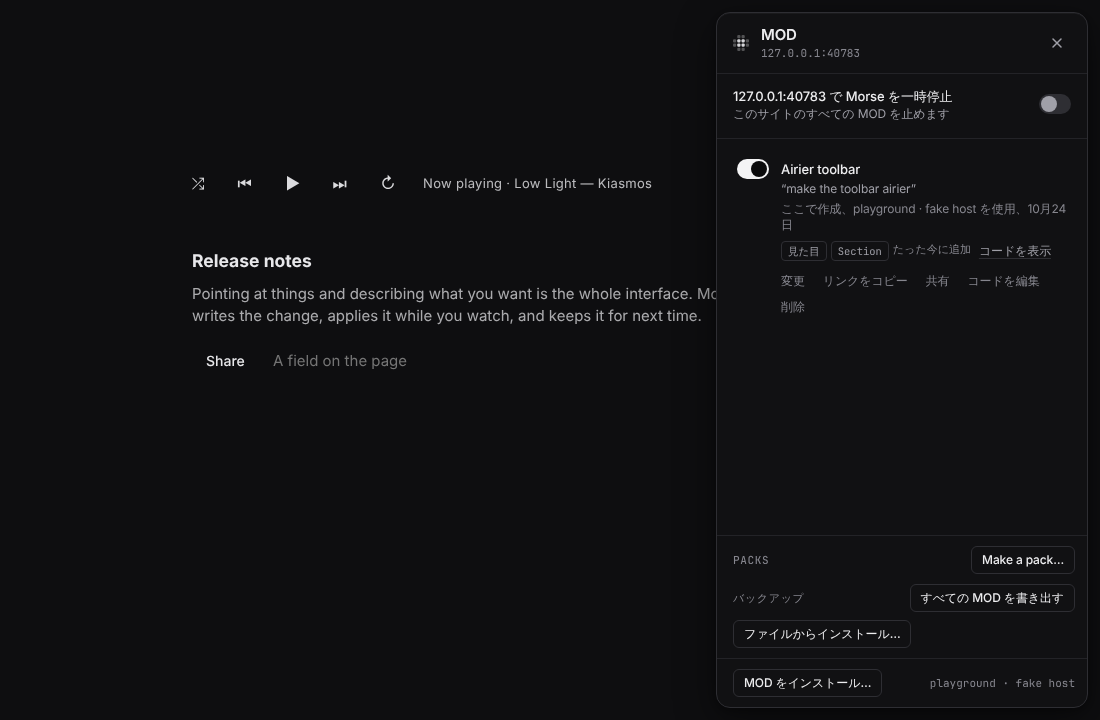
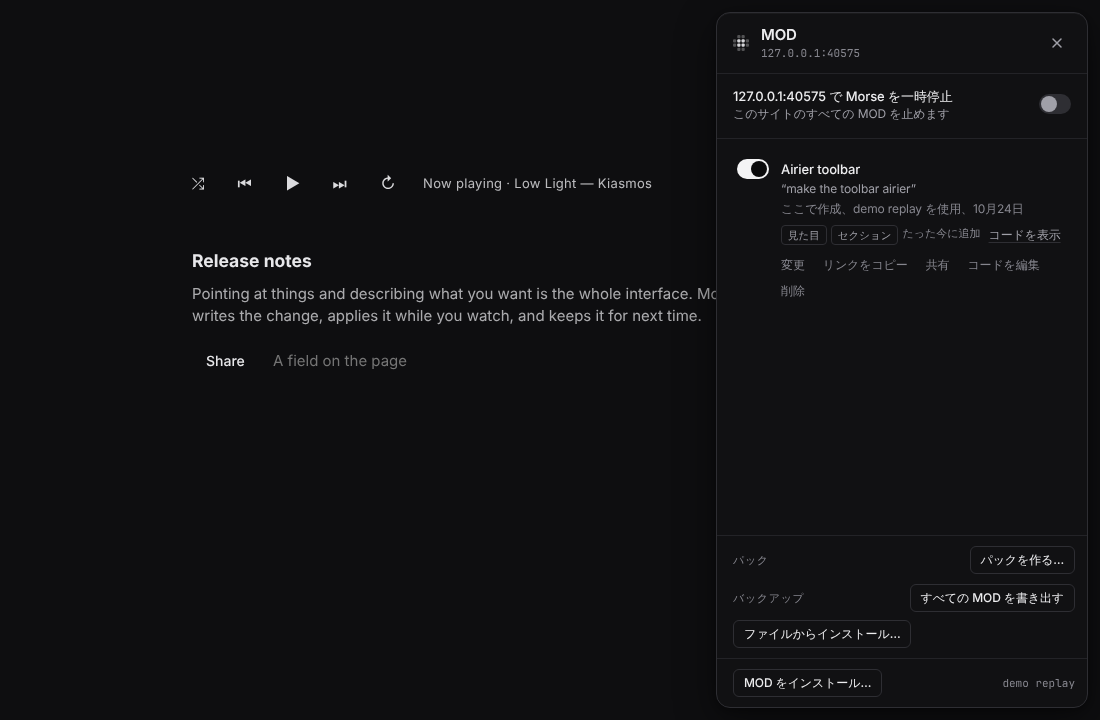
i18n: the Mods panel shows a mod's part-of-the-page tag in the person's language; re-shoot es/ja/fa
A saved mod keeps the English label the model read ("Section", "Save
button"); shownLabel() puts it in the current language for the tag, and
the panel's search finds either. Screenshots 170-181 re-taken: "Make a
pack…", "Packs" and the Section tag are translated.

Claude-Session: https://claude.ai/code/session_01JPQNdGmAR6LVbeAzJZFfz3

diff --git a/runtime/src/70-panel.js b/runtime/src/70-panel.js
@@ -129,7 +129,7 @@ function focusRow(i) {
 }
 
 function matches(m, q) {
-  const hay = [m.title, m.prompt, m.refined, m.target?.label].filter(Boolean).join(" ").toLowerCase();
+  const hay = [m.title, m.prompt, m.refined, m.target?.label, shownLabel(m.target?.label)].filter(Boolean).join(" ").toLowerCase();
   return q.toLowerCase().split(/\s+/).filter(Boolean).every(w => hay.includes(w));
 }
 
@@ -187,7 +187,7 @@ function rowHtml(m) {
       <article data-id="${esc(m.id)}" class="${m.enabled ? "" : "off"}${broken ? " broken" : ""}" tabindex="-1" aria-label="${esc(label)}" aria-describedby="m-row-keys">
         <label class="sw" title="${m.enabled ? t("btn.turnOff") : t("btn.turnOn")}"><input type="checkbox" data-a="toggle" tabindex="-1" aria-label="${esc(m.title)}" ${m.enabled ? "checked" : ""}><span></span></label>
         <div class="meta"><b>${esc(m.title)}</b><small>“${esc(m.prompt)}”</small>${m.refined ? `<small class="latest">${t("panel.latest", { text: esc(m.refined) })}</small>` : ""}
-          <div class="tags">${m.css.trim() ? `<span>${t("panel.tag.style")}</span>` : ""}${m.js.trim() ? `<span>${t("panel.tag.script")}</span>` : ""}${m.target ? `<span>${esc(m.target.label || "")}</span>` : `<span>${t("panel.tag.page")}</span>`}${when ? `<em class="when">${esc(changed ? t("panel.changed", { when }) : t("panel.added", { when }))}</em>` : ""}</div>
+          <div class="tags">${m.css.trim() ? `<span>${t("panel.tag.style")}</span>` : ""}${m.js.trim() ? `<span>${t("panel.tag.script")}</span>` : ""}${m.target ? `<span>${esc(shownLabel(m.target.label))}</span>` : `<span>${t("panel.tag.page")}</span>`}${when ? `<em class="when">${esc(changed ? t("panel.changed", { when }) : t("panel.added", { when }))}</em>` : ""}</div>
         </div>
         ${broken ? `<div class="health" role="status"><p><b>${esc(h.lead || t("panel.notWorking") /* self-heal hook: 71-heal.js */)}</b> ${esc(h.reason)}</p><button class="primary" data-a="fix">${t("btn.fixIt")}</button></div>` : ""}
         ${guardRowHtml(m) /* guard hook: Paused because it was slowing this page down (64-guard.js) */}

diff --git a/runtime/src/20-context.js b/runtime/src/20-context.js
@@ -224,6 +224,25 @@ function namedBy(el) {
 // The kind word in the person's language: message ids "kind.<word>" ("kind.menu-item").
 // lang "en" for what the model reads (the target's label in context()).
 const kindWord = (k, lang) => t(`kind.${k.replace(/ /g, "-")}`, {}, lang);
+// A saved mod keeps the English label the model read ("Section", "“Release
+// notes” section", "Save button"); the Mods panel shows it in the person's
+// language. Names stay as they are; a label it can't take apart stays English.
+function shownLabel(label) {
+  const s = String(label || "");
+  if (!s || getLanguage() === "en") return s;
+  const kinds = Object.keys(CATALOGS.en).filter(id => /^kind\./.test(id) && id !== "kind.named" && id !== "kind.quoted").map(id => [CATALOGS.en[id], id.slice(5)]);
+  const word = w => kinds.find(([en]) => en.toLowerCase() === w.toLowerCase())?.[1];
+  const cap = x => x.charAt(0).toUpperCase() + x.slice(1);
+  const alone = word(s);
+  if (alone) return cap(t(`kind.${alone}`));
+  for (const [en, k] of [...kinds].sort((x, y) => y[0].length - x[0].length)) {
+    if (!s.toLowerCase().endsWith(` ${en.toLowerCase()}`)) continue;
+    const name = s.slice(0, -en.length - 1).trim();
+    const q = /^“(.*)”$/.exec(name);
+    return t(q ? "kind.quoted" : "kind.named", { name: q ? q[1] : name, kind: t(`kind.${k}`) });
+  }
+  return s;
+}
 function describe(el, lang) {
   const role = roleWord(el);
   const { name, from } = nameOf(el);

diff --git a/tests/i18n.test.js b/tests/i18n.test.js
@@ -169,3 +169,22 @@ test("the CLI speaks the terminal's language (LANG=es)", async () => {
   const plain = await run(["mods"], { ...env, LANG: "C.UTF-8" });
   assert.match(plain.out, /No mods yet/);
 });
+
+test("the Mods panel shows a saved part-of-the-page label in the person's language (runtime/src/20-context.js)", async () => {
+  const { readFileSync } = await import("node:fs");
+  const src = readFileSync(new URL("../runtime/src/20-context.js", import.meta.url), "utf8");
+  const fn = /function shownLabel\(label\) \{[\s\S]*?\n\}\n/.exec(src)[0];
+  const shownLabel = new Function("t", "getLanguage", "CATALOGS", `${fn}; return shownLabel;`)(t, getLanguage, CATALOGS);
+  const was = getLanguage();
+  try {
+    setLanguage("es");
+    assert.equal(shownLabel("Section"), "Sección");
+    assert.equal(shownLabel("Search field"), "Campo de búsqueda", "a two-word kind");
+    assert.equal(shownLabel("“Release notes” section"), "sección “Release notes”");
+    assert.equal(shownLabel("Save button"), "botón Save");
+    assert.equal(shownLabel("Find search field"), "campo de búsqueda Find", "the longest kind wins");
+    assert.equal(shownLabel("“Notes”"), "“Notes”", "a name alone stays as it is");
+    setLanguage("en");
+    assert.equal(shownLabel("Save button"), "Save button");
+  } finally { setLanguage(was); }
+});
